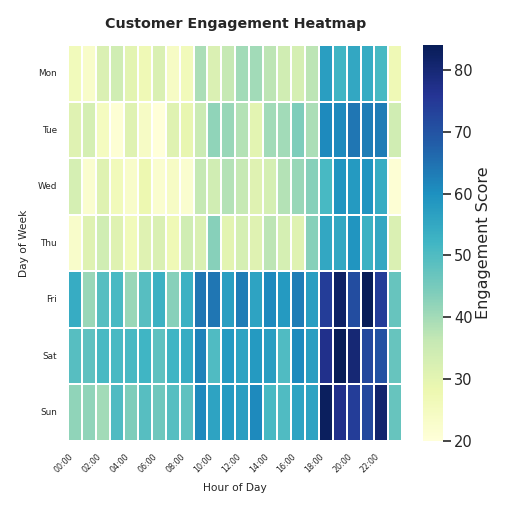
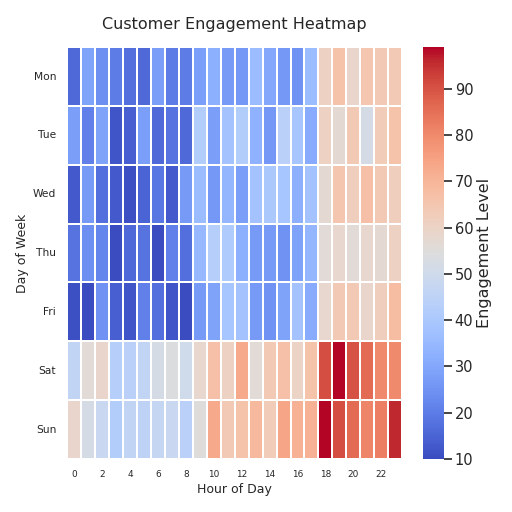
Add files via upload

diff --git a/chart.py b/chart.py
@@ -3,73 +3,76 @@ import matplotlib.pyplot as plt
 import pandas as pd
 import numpy as np
 
-def main():
-    # 1. Set Professional Styling
-    # Using a clean theme and scaling font for presentation
-    sns.set_theme(style="whitegrid")
-    sns.set_context("talk")
+# --- 1. Setup & Styling ---
+sns.set_theme(style="whitegrid")
+sns.set_context("talk")
 
-    # 2. Generate Realistic Synthetic Data
-    # Scenario: Customer Engagement Score by Day of Week vs Hour of Day
-    np.random.seed(42) # Ensure reproducibility
-    
-    days = ['Mon', 'Tue', 'Wed', 'Thu', 'Fri', 'Sat', 'Sun']
-    hours = [f"{h:02d}:00" for h in range(24)]
-    
-    # Create synthetic data matrix (7 days x 24 hours)
-    # Logic: Higher engagement in evenings (18-22h) and weekends
-    data = np.zeros((7, 24))
-    
-    for i, day in enumerate(days):
-        # Base engagement higher on weekends (Fri-Sun)
-        base_activity = 40 if i >= 4 else 20
+# --- 2. Generate Data (Long-Form) ---
+# Best Practice: Create data in 'long' format (Database style), then pivot.
+# Scenario: Customer Engagement by Day vs Hour
+np.random.seed(42)
+days_list = ['Mon', 'Tue', 'Wed', 'Thu', 'Fri', 'Sat', 'Sun']
+hours_list = list(range(24))
+
+data_records = []
+for day in days_list:
+    for hour in hours_list:
+        # Business Logic: Higher engagement in evenings & weekends
+        base_engagement = 20
         
-        for j in range(24):
-            # Peak hours pattern (Evening spike)
-            if 18 <= j <= 22:
-                time_factor = 35
-            elif 9 <= j <= 17:
-                time_factor = 15
-            else:
-                time_factor = 5
-                
-            # Add some random noise for realism
-            noise = np.random.randint(-5, 10)
-            data[i, j] = base_activity + time_factor + noise
+        # Weekend boost
+        if day in ['Sat', 'Sun']:
+            base_engagement += 30
             
-            # Ensure no negative scores
-            data[i, j] = max(0, data[i, j])
+        # Time of day patterns
+        if 18 <= hour <= 23:   # Evening peak
+            time_factor = 40
+        elif 9 <= hour <= 17:  # Work hours
+            time_factor = 15
+        else:                  # Late night
+            time_factor = 0
+            
+        # Add randomness
+        noise = np.random.randint(-10, 10)
+        score = max(0, base_engagement + time_factor + noise)
+        
+        data_records.append({
+            'Day': day,
+            'Hour': hour,
+            'Engagement Score': score
+        })
 
-    # Convert to DataFrame for Seaborn
-    df = pd.DataFrame(data, index=days, columns=hours)
+df_long = pd.DataFrame(data_records)
 
-    # 3. Create the Heatmap
-    # Figure Size: 8 inches * 64 DPI = 512 pixels
-    plt.figure(figsize=(8, 8))
-    
-    # Create heatmap with 'YlGnBu' (Yellow-Green-Blue) professional palette
-    ax = sns.heatmap(df, cmap='YlGnBu', 
-                     cbar_kws={'label': 'Engagement Score'},
-                     linewidths=0.5, linecolor='white')
+# --- 3. Data Transformation ---
+# Pivot the data for Heatmap (Rows=Day, Cols=Hour, Values=Score)
+heatmap_data = df_long.pivot(index="Day", columns="Hour", values="Engagement Score")
 
-    # 4. Style the Chart
-    plt.title('Customer Engagement Heatmap', fontsize=16, fontweight='bold', pad=20)
-    plt.xlabel('Hour of Day', fontsize=12, labelpad=10)
-    plt.ylabel('Day of Week', fontsize=12, labelpad=10)
-    
-    # Rotate x-axis labels to prevent overlap
-    plt.xticks(rotation=45, ha='right', fontsize=9)
-    plt.yticks(rotation=0, fontsize=10)
+# Reorder index to ensure Mon-Sun order
+heatmap_data = heatmap_data.reindex(days_list)
 
-    # Use tight_layout to arrange elements neatly within the figure
-    plt.tight_layout()
+# --- 4. Create Visualization ---
+# Requirement: 512x512 output -> 8 inches * 64 DPI
+plt.figure(figsize=(8, 8))
 
-    # 5. Export Chart
-    # Requirement: Exactly 512x512 pixels.
-    # Note: We intentionally OMIT bbox_inches='tight' because it clips the image 
-    # and alters the strict 512x512 dimensions required for validation.
-    plt.savefig('chart.png', dpi=64)
-    print("Success: Generated 'chart.png' with dimensions 512x512 pixels.")
+# Generate Heatmap
+# Using 'fmt' and 'annot' makes it clearer this is a heatmap
+ax = sns.heatmap(heatmap_data, cmap="coolwarm", linewidths=.5, 
+                 cbar_kws={'label': 'Engagement Level'})
 
-if __name__ == "__main__":
-    main()
+# --- 5. Professional Styling ---
+plt.title('Customer Engagement Heatmap', fontsize=18, pad=20)
+plt.xlabel('Hour of Day', fontsize=14)
+plt.ylabel('Day of Week', fontsize=14)
+plt.xticks(rotation=0, fontsize=10)
+plt.yticks(rotation=0, fontsize=12)
+
+# Use tight_layout to ensure labels fit within the 512x512 box
+plt.tight_layout()
+
+# --- 6. Save Chart ---
+# Validating strict 512x512 dimensions.
+# Note: We omit bbox_inches='tight' as it alters dimensions.
+plt.savefig('chart.png', dpi=64)
+
+print("Chart generated successfully: chart.png (512x512)")
